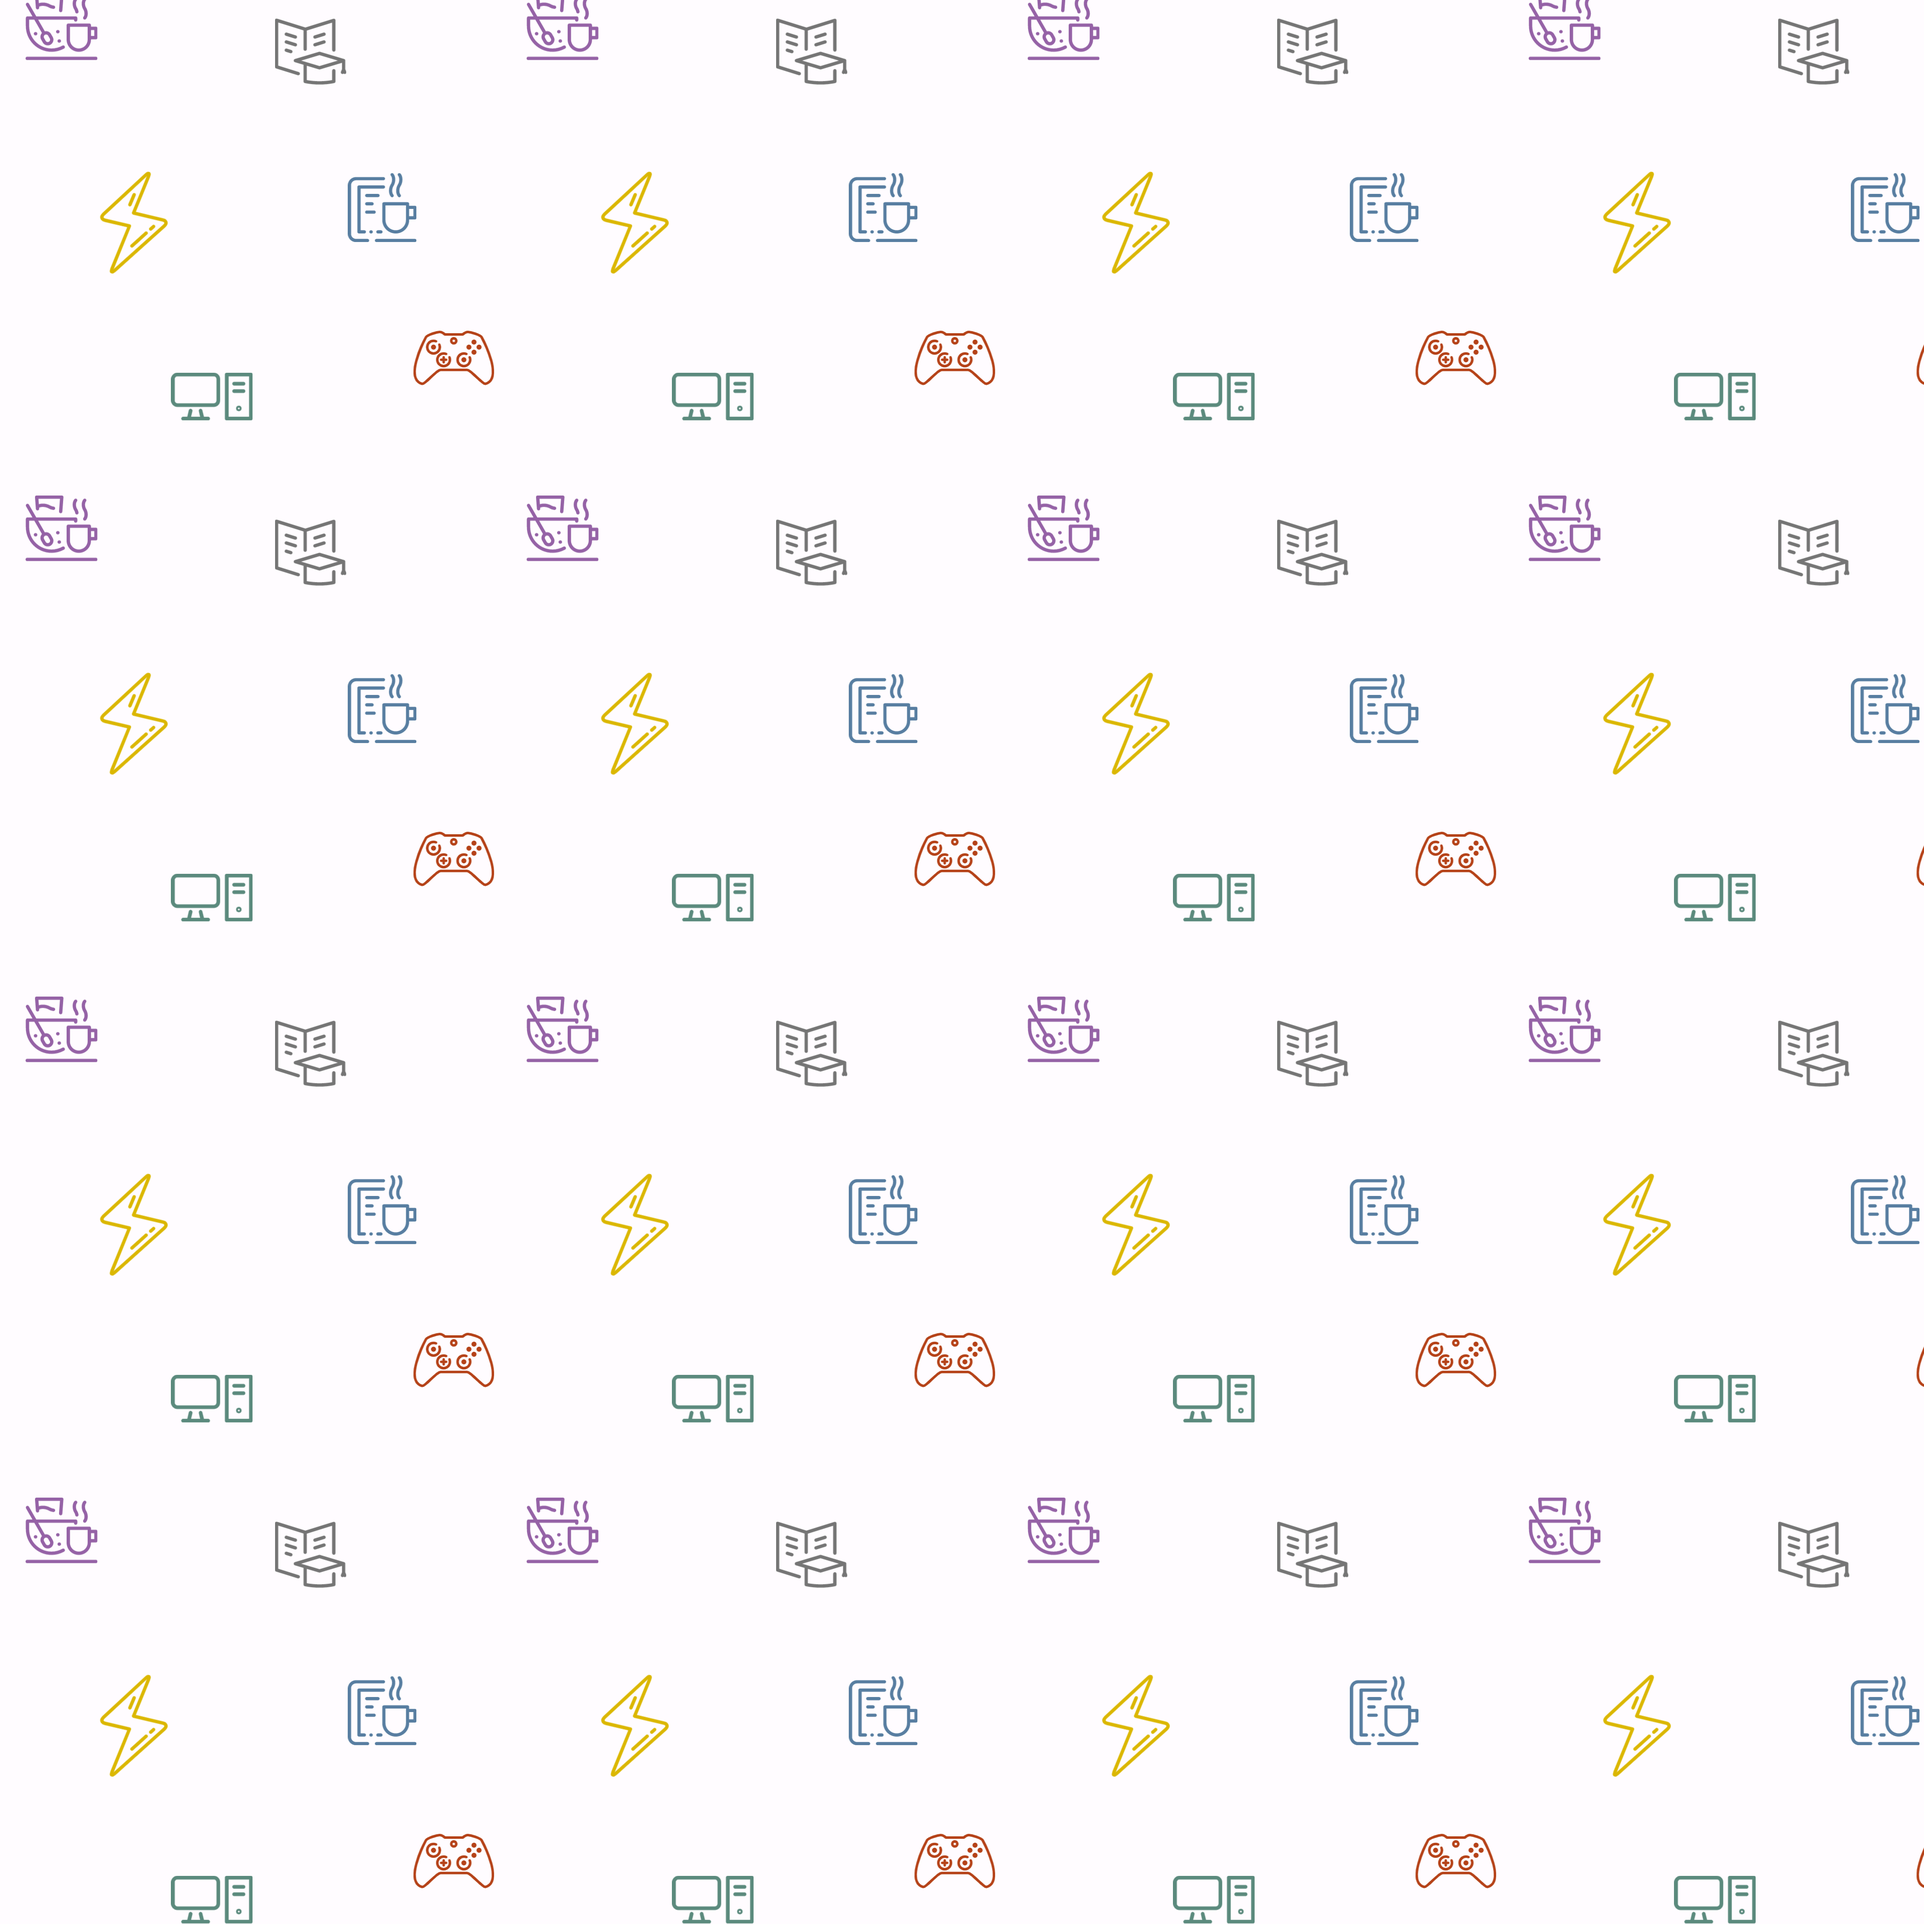
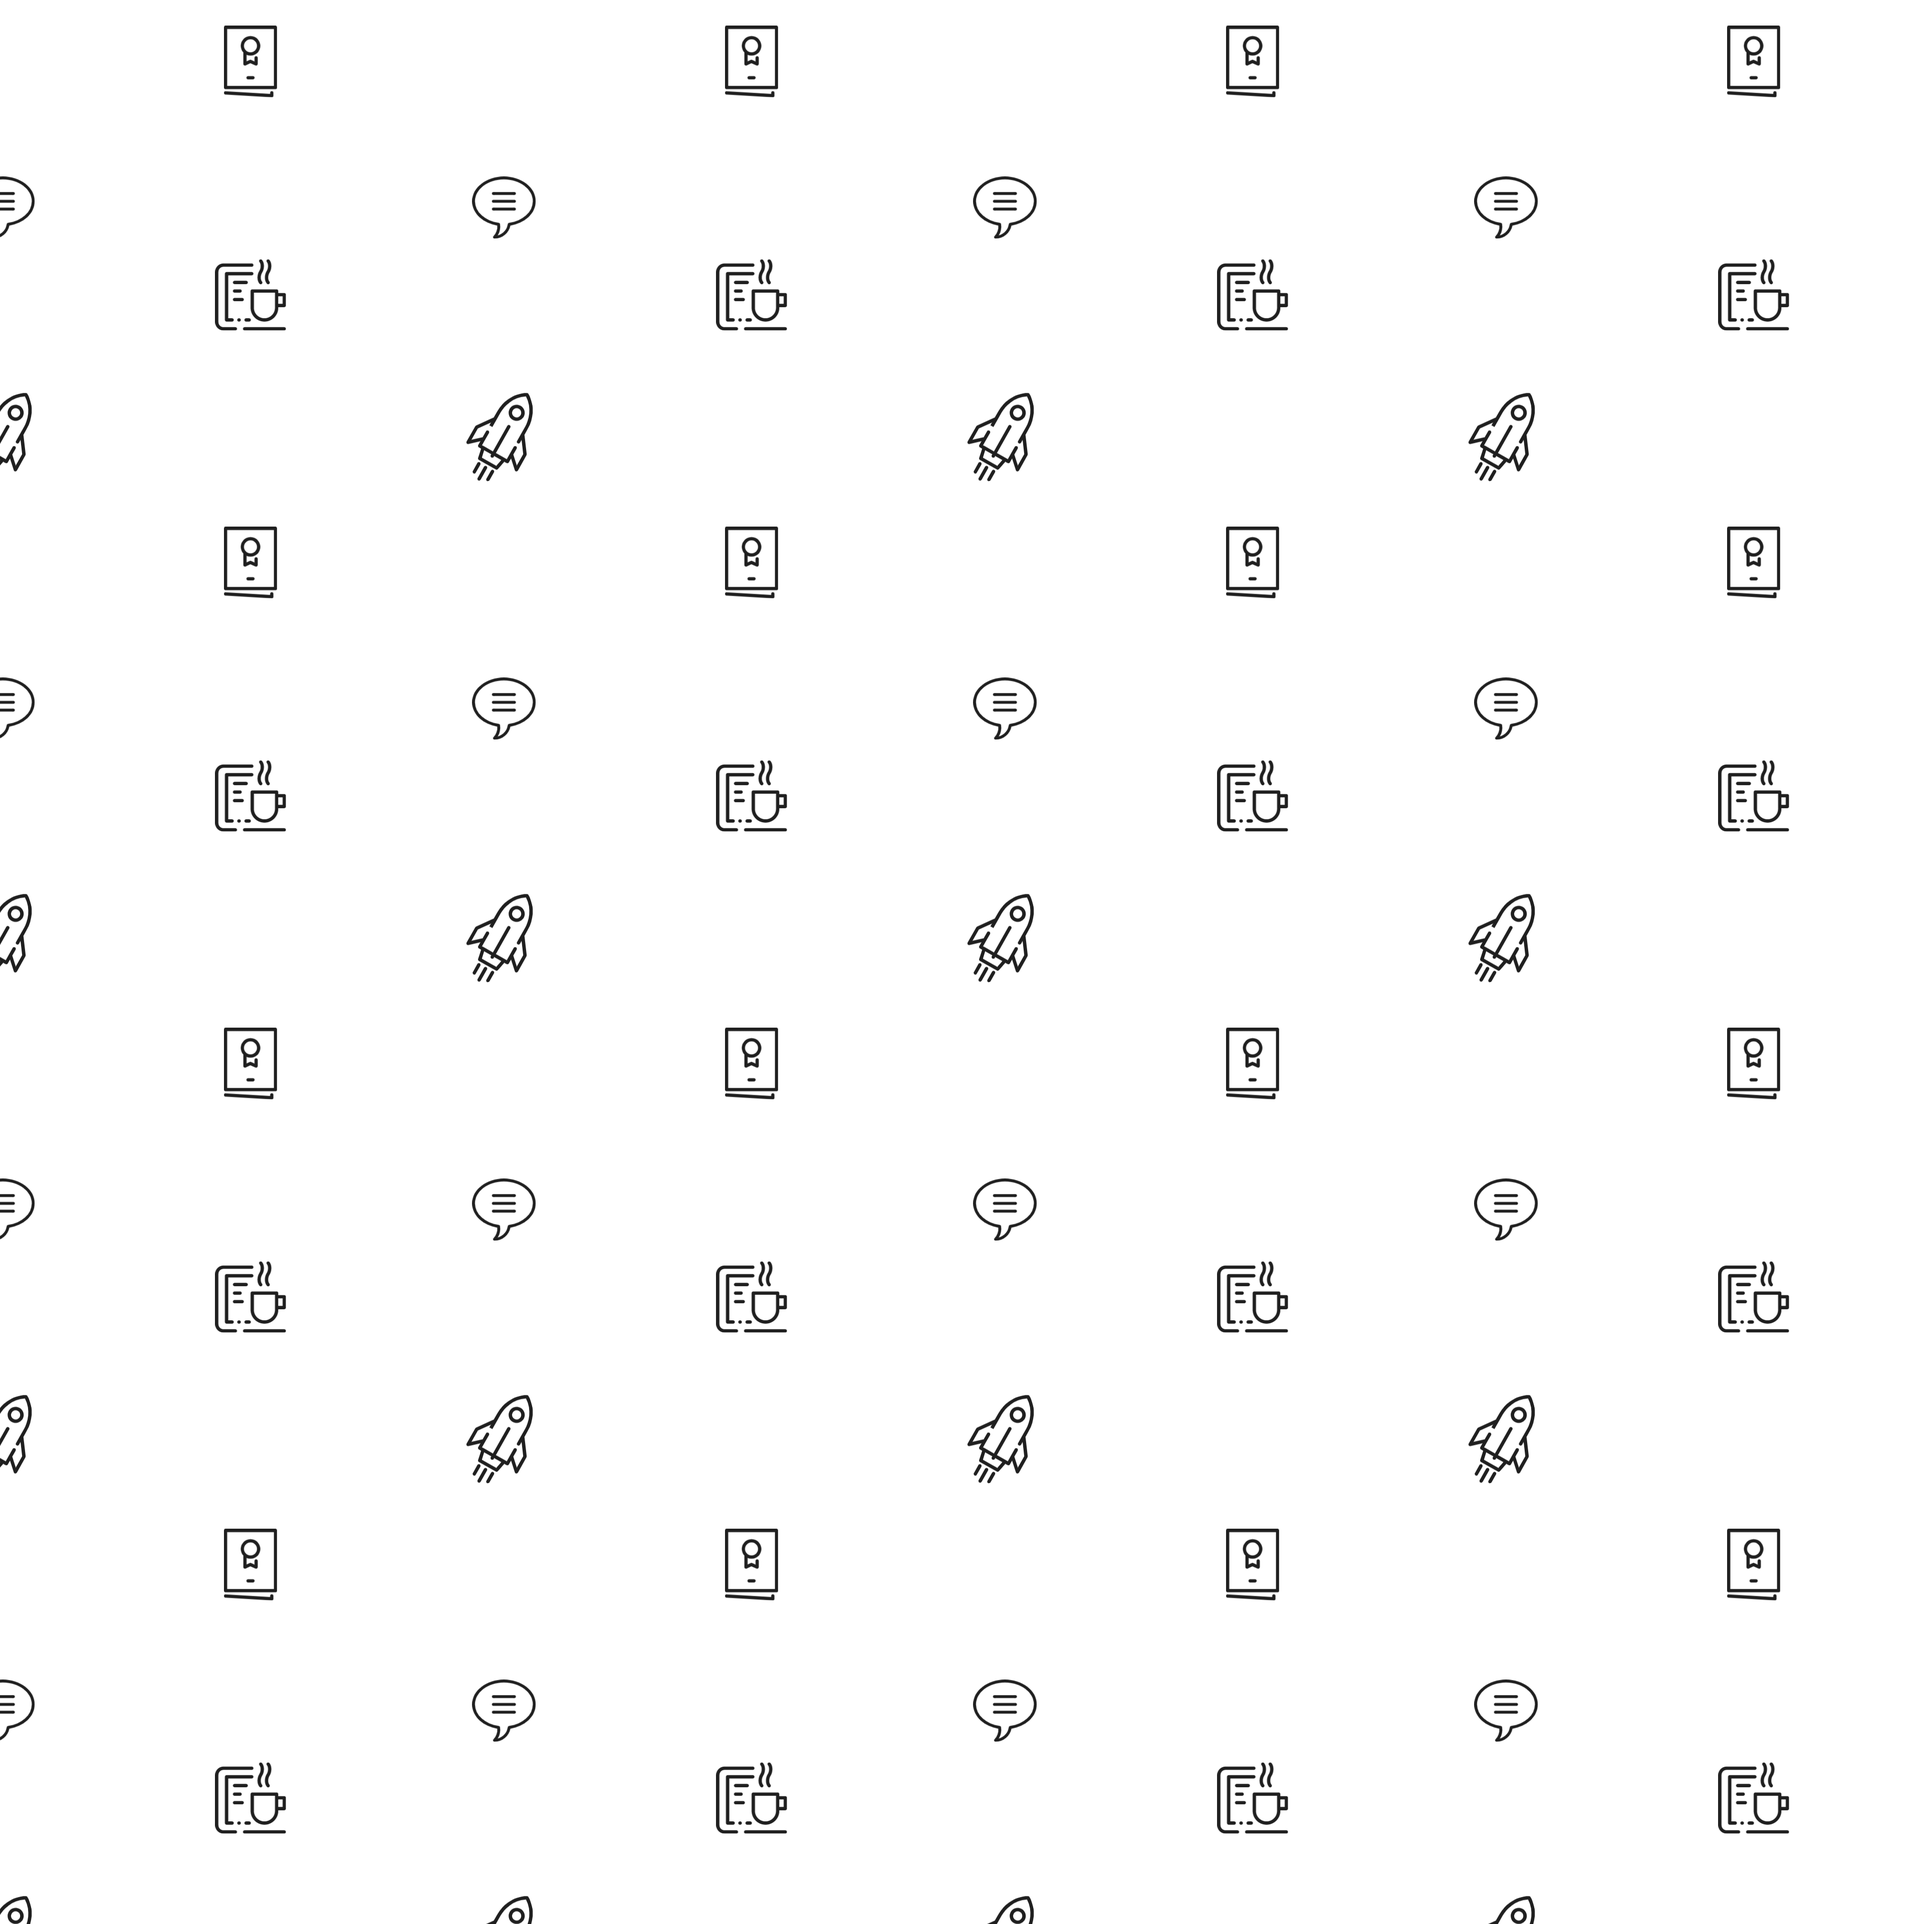
Add MDX layout and hello-world article

diff --git a/src/layouts/BaseLayout.tsx b/src/layouts/BaseLayout.tsx
@@ -1,8 +1,9 @@
 import React from 'react';
-import { useStaticQuery, graphql } from 'gatsby';
+import { useStaticQuery, graphql, Link } from 'gatsby';
 import ThemeChanger from '../components/ThemeChanger';
 import SEO from '../components/SEO';
-import { StaticImage } from 'gatsby-plugin-image';
+import BackgroundImage from '../components/BackgroundImage';
+import HomeButton from '../components/HomeButton';
 
 const BaseLayout: React.FC = ({ children }) => {
   const data = useStaticQuery(graphql`
@@ -18,26 +19,14 @@ const BaseLayout: React.FC = ({ children }) => {
   return (
     <>
       <SEO title="Home" />
-      <StaticImage
-        className="top-0 left-0 w-full h-screen z-0 dark:bg-gray-800 opacity-5 dark:opacity-100"
-        style={{
-          position: 'fixed',
-        }}
-        imgClassName=""
-        src="../images/pattern2.png"
-        layout="fullWidth"
-        alt="A dinosaur"
-        placeholder="blurred"
-        transformOptions={{
-          fit: 'fill',
-        }}
-      />
+      <BackgroundImage />
       <div className="relative bg-transparent flex flex-col flex-1 h-screen">
         <div className="flex justify-between font-sans p-4">
-          <div className="dark:text-gray-200">
-            {data.site.siteMetadata?.title}
+          <HomeButton title={data.site?.siteMetadata?.title ?? 'Home'} />
+          <div className="flex items-center space-x-5">
+            <Link className="text-green-600 dark:text-green-300" to="/articles">Articles</Link>
+            <ThemeChanger />
           </div>
-          <ThemeChanger />
         </div>
         <div className="flex flex-1">{children}</div>
         <footer className="p-2 bottom-0 text-center dark:bg-gray-700 text-xs text-gray-400">

diff --git a/src/layouts/ArticleLayout.tsx b/src/layouts/ArticleLayout.tsx
@@ -1,0 +1,51 @@
+import { StaticQuery, graphql } from 'gatsby';
+import React from 'react';
+import BackgroundImage from '../components/BackgroundImage';
+import HomeButton from '../components/HomeButton';
+import SEO from '../components/SEO';
+import ThemeChanger from '../components/ThemeChanger';
+
+interface Props {
+  uri: string;
+  pageContext: { frontmatter: any };
+}
+
+const ArticleLayout: React.FC<Props> = ({ children, pageContext }) => {
+  return (
+    <StaticQuery
+      query={graphql`
+        query NonPageQuery {
+          site {
+            siteMetadata {
+              title
+            }
+          }
+        }
+      `}
+      render={({ site: { siteMetadata } }) => (
+        <>
+          <SEO
+            title={pageContext.frontmatter.title}
+            description={pageContext.frontmatter.descrption}
+          />
+          <BackgroundImage />
+          <div className="relative bg-transparent flex flex-col flex-1 h-screen">
+            <div className="flex justify-between font-sans p-4">
+              <HomeButton title={siteMetadata?.title ?? 'Home'} />
+              <ThemeChanger />
+            </div>
+            <div className="flex flex-1 max-w-2xl mx-auto">
+              <div className="prose dark:prose-dark">{children}</div>
+            </div>
+            <footer className="p-2 bottom-0 text-center dark:bg-gray-700 text-xs text-gray-400">
+              {`© ${new Date().getFullYear()}, Built with `}
+              <a href="https://www.gatsbyjs.com">Gatsby</a>
+            </footer>
+          </div>
+        </>
+      )}
+    />
+  );
+};
+
+export default ArticleLayout;

diff --git a/src/pages/articles/index.tsx b/src/pages/articles/index.tsx
@@ -1,0 +1,61 @@
+import { graphql, Link } from 'gatsby';
+import React from 'react';
+import SEO from '../../components/SEO';
+import BaseLayout from '../../layouts/BaseLayout';
+
+interface IndexPageProps {
+  data: {
+    allMdx: {
+      edges: any[];
+    };
+  };
+}
+
+const IndexPage = ({ data }: IndexPageProps) => {
+  return (
+    <BaseLayout>
+      <SEO title="Home" />
+      <div className="bg-transparent p-8 w-full max-w-2xl mx-auto">
+        <article className="prose dark:prose-dark mx-auto w-full">
+          <h1>Here are some of my articles</h1>
+          <h2>Hope you like them!</h2>
+          <p>
+            Lorem ipsum dolor sit amet consectetur adipisicing elit. Libero,
+            harum eveniet culpa debitis illum facere esse alias. Numquam
+            suscipit eum, necessitatibus laborum quaerat, accusantium, a culpa
+            eveniet maxime sunt iure.
+          </p>
+          <ol>
+            {data.allMdx.edges.map(({ node: { frontmatter } }) => {
+              return (
+                <li key={frontmatter.path}>
+                  <Link to={`/articles${frontmatter.path}`}>
+                    {frontmatter.title} - {frontmatter.date}
+                  </Link>
+                </li>
+              );
+            })}
+          </ol>
+        </article>
+      </div>
+    </BaseLayout>
+  );
+};
+
+export const pageQuery = graphql`
+  query {
+    allMdx {
+      edges {
+        node {
+          frontmatter {
+            title
+            path
+            date(formatString: "MMMM DD, YYYY")
+          }
+        }
+      }
+    }
+  }
+`;
+
+export default IndexPage;

diff --git a/tailwind.config.js b/tailwind.config.js
@@ -72,13 +72,22 @@ module.exports = {
                 fontFamily: 'League Spartan',
                 fontWeight: 700,
               },
+              h3: {
+                color: theme('colors.yellow.700'),
+                fontFamily: 'League Spartan',
+                fontWeight: 500,
+              },
               p: {
                 color: theme('colors.gray.800'),
                 fontFamily: 'Junction',
                 fontWeight: 300,
               },
               li: {
+                color: theme('colors.gray.800'),
                 lineHeight: '1.5rem',
+              },
+              a: {
+                color: theme('colors.gray.800'),
               },
             },
           ],
@@ -96,12 +105,20 @@ module.exports = {
                 fontFamily: 'League Spartan',
                 fontWeight: 700,
               },
+              h3: {
+                color: theme('colors.yellow.500'),
+                fontFamily: 'League Spartan',
+                fontWeight: 500,
+              },
               p: {
                 color: theme('colors.gray.300'),
                 fontFamily: 'Junction',
                 fontWeight: 300,
               },
               li: {
+                color: theme('colors.gray.300'),
+              },
+              a: {
                 color: theme('colors.gray.300'),
               },
             },

diff --git a/src/components/BackgroundImage.tsx b/src/components/BackgroundImage.tsx
@@ -1,0 +1,23 @@
+import React from 'react';
+import { StaticImage } from 'gatsby-plugin-image';
+
+const BackgroundImage = () => {
+  return (
+    <StaticImage
+      className="top-0 left-0 w-full h-screen z-0 dark:bg-gray-800 opacity-5 dark:opacity-100"
+      style={{
+        position: 'fixed',
+      }}
+      imgClassName=""
+      src="../images/pattern.png"
+      layout="fullWidth"
+      alt="Background image"
+      placeholder="blurred"
+      transformOptions={{
+        fit: 'fill',
+      }}
+    />
+  );
+};
+
+export default BackgroundImage;

diff --git a/gatsby-config.js b/gatsby-config.js
@@ -20,7 +20,14 @@ module.exports = {
     'gatsby-plugin-react-helmet',
     'gatsby-plugin-sitemap',
     'gatsby-transformer-remark',
-    'gatsby-plugin-mdx',
+    {
+      resolve: `gatsby-plugin-mdx`,
+      options: {
+        defaultLayouts: {
+          default: require.resolve('./src/layouts/ArticleLayout.tsx'),
+        },
+      },
+    },
     'gatsby-plugin-sharp',
     'gatsby-transformer-sharp',
     {

diff --git a/src/components/HomeButton.tsx b/src/components/HomeButton.tsx
@@ -1,0 +1,16 @@
+import { Link } from 'gatsby';
+import React from 'react';
+
+interface HomeButtonProps {
+  title: string;
+}
+
+const HomeButton: React.FC<HomeButtonProps> = ({ title }) => {
+  return (
+    <Link to="/">
+      <div className="dark:text-gray-200">{title}</div>
+    </Link>
+  );
+};
+
+export default HomeButton;
